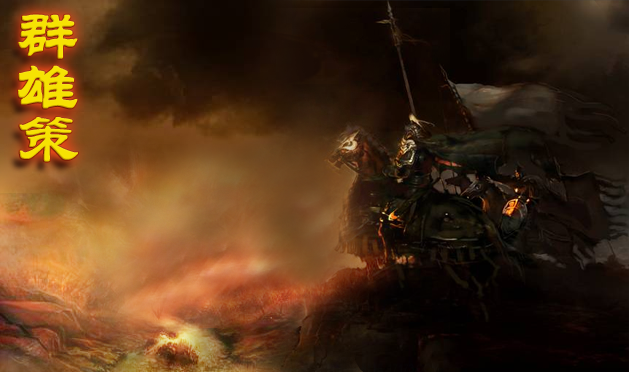
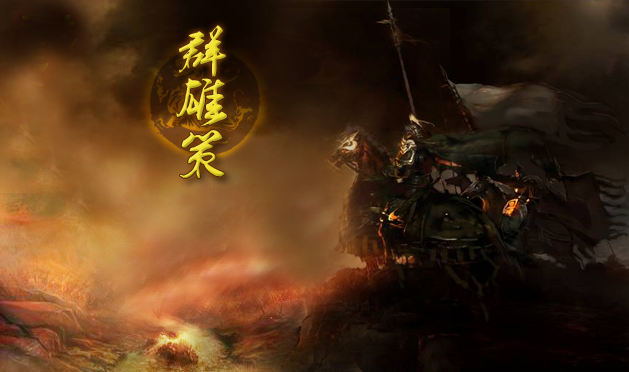
修改首页板块标题图片

Changed region(s): [[0.0, 0.0, 0.2417, 0.5323], [0.2114, 0.0591, 0.4229, 0.5027]]

diff --git a/app/assets/stylesheets/site.css b/app/assets/stylesheets/site.css
@@ -94,6 +94,7 @@ body .carousel {
 	float: left;
 }
 .articles-list .panel-heading {
+	padding: 5px 15px;
 	background-image: url('/init_data/images/panels/articles_header.png'); 
 	height: 31px;
 }
@@ -109,6 +110,7 @@ body .carousel {
 }
 
 .topbbs-list .panel-heading {
+	padding: 5px 15px;
 	background-image: url('/init_data/images/panels/top_bbs_header.png'); 
 	height: 30px;
 }
@@ -196,6 +198,7 @@ body .carousel {
 }
 
 .guessball .panel-heading {
+	padding: 5px 10px;
 	background-image: url('/init_data/images/panels/guessball_header.png');
 	height: 31px;
 }
@@ -243,6 +246,7 @@ body .carousel {
 }
 
 .sys-game .panel-heading{
+	padding: 3px 10px;
 	background-image: url('/init_data/images/panels/sys_game_header.png');
 	height: 31px;
 }
@@ -273,6 +277,7 @@ body .carousel {
 }
 
 .servertimes .panel-heading {
+	padding: 5px 10px;
 	background-image: url('/init_data/images/panels/servertimes_header.png');
 	height: 31px;
 }
@@ -339,6 +344,7 @@ body .carousel {
 }
 
 .fighting .panel-heading{
+	padding: 5px 10px;
 	background-image: url(/init_data/images/panels/xuanzhanba_header.png);
 	height: 38px;
 	width: 728px;
@@ -360,6 +366,7 @@ body .carousel {
 
 /*激烈战况*/
 .fighting-live .panel-heading{
+	padding: 5px 10px;
 	background-image: url(/init_data/images/panels/zhankuang_header.png);
 	height: 30px;
 	width: 240px;
